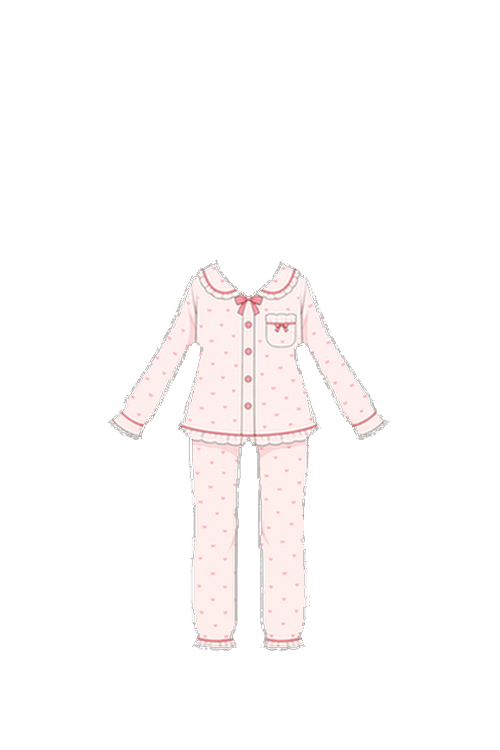
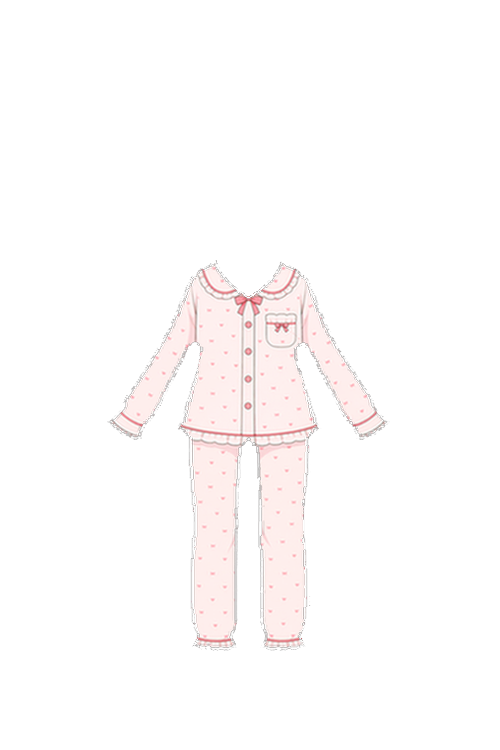
fix: オーバーオール・パジャマ幅を左右1pxずつ拡張（高さ維持）
Claude-Session: https://claude.ai/code/session_01XMvAfF4jxf9CbKyjmGTEy4

diff --git a/osewa.html b/osewa.html
@@ -803,8 +803,8 @@ window.onerror = function(msg, src, line) {
 var CLOTHES = [
   { name: 'ピンクドレス', img: 'doll_cloth_1.png?v=9', color: '#f9a8d4', shape: 'dress' },
   { name: 'みずいろドレス', img: 'doll_cloth_2.png?v=7', color: '#93c5fd', shape: 'dress' },
-  { name: 'オーバーオール', img: 'doll_cloth_3.png?v=16', color: '#5b8dbf', shape: 'overalls' },
-  { name: 'パジャマ', img: 'doll_cloth_4.png?v=15', color: '#f9c5d1', shape: 'pajama' },
+  { name: 'オーバーオール', img: 'doll_cloth_3.png?v=17', color: '#5b8dbf', shape: 'overalls' },
+  { name: 'パジャマ', img: 'doll_cloth_4.png?v=16', color: '#f9c5d1', shape: 'pajama' },
   { name: 'キラキラドレス', img: 'doll_cloth_5.png?v=7', color: '#f472b6', shape: 'dress' },
 ];
 